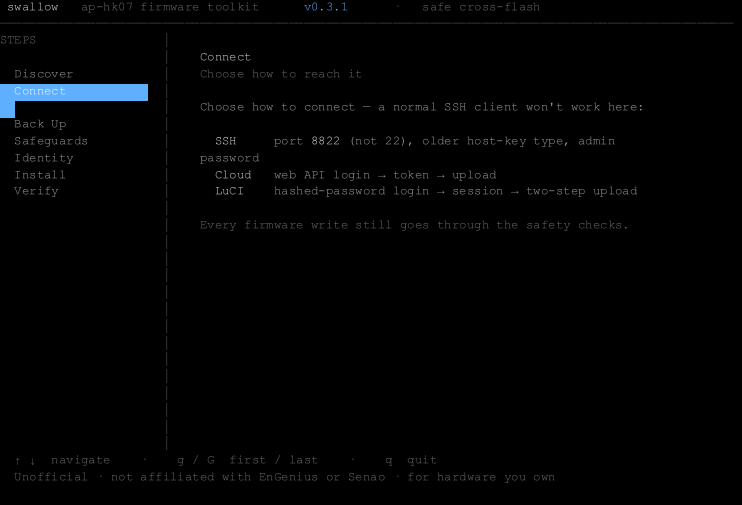
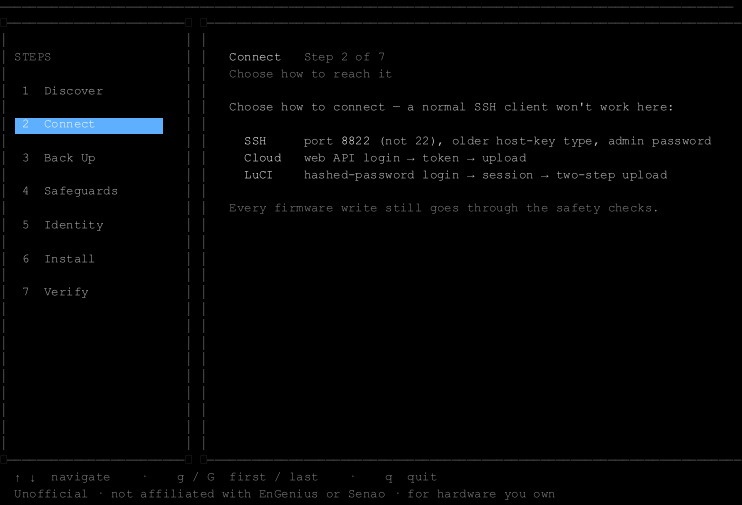
fix(tui): legibility overhaul — higher contrast, framed cards, safe glyphs
The old dashboard was hard to read: dim grays on black, and a pipe-column
"divider" that was really the menu's right border.

- Contrast: bright near-white headings, a high-contrast body gray, and readable
  captions (no more near-invisible dim text). Accent moved to a brighter blue
  that stays legible on black.
- Structure: two rounded, bordered cards (sidebar + detail) instead of the pipe
  column. Numbered steps (1–7) and a "Step N of 7" breadcrumb.
- Glyphs: the check/box/cross glyphs rendered as tofu in common terminal fonts;
  replaced with the middle-dot bullet (renders everywhere). Color still carries
  the allowed/refused, valid/bad meaning.
- Safeguards screen reflowed so nothing wraps mid-token.

Screenshots regenerated; termwright asserts all 7 screens.

diff --git a/go/internal/tui/tui.go b/go/internal/tui/tui.go
@@ -16,37 +16,40 @@ import (
 	"github.com/ParkWardRR/swallow-ap-hk07-firmware-tools/internal/mews"
 )
 
-// A restrained, system-like palette: mostly neutral ink, one soft-blue accent
-// for selection/emphasis, and green/red reserved strictly for status meaning.
+// A calm, system-like palette tuned for legibility on a dark terminal: bright
+// near-white headings, a high-contrast body gray, one readable blue accent for
+// selection/links, and green/red reserved strictly for status meaning.
 var (
-	accent   = lipgloss.Color("75")  // soft blue — selection + emphasis
-	ink      = lipgloss.Color("253") // primary text
-	ink2     = lipgloss.Color("247") // secondary text
-	faint    = lipgloss.Color("242") // hints / captions
-	hair     = lipgloss.Color("237") // hairline dividers
-	okc      = lipgloss.Color("78")  // system green
+	accent   = lipgloss.Color("75")  // selection background
+	accentTx = lipgloss.Color("117") // accent text (bright enough to read on black)
+	strong   = lipgloss.Color("231") // headings — near-white
+	text     = lipgloss.Color("252") // primary body text
+	text2    = lipgloss.Color("250") // menu items / secondary
+	cap      = lipgloss.Color("245") // captions / hints (still readable)
+	line     = lipgloss.Color("240") // visible-but-subtle card borders
+	okc      = lipgloss.Color("114") // system green
 	noc      = lipgloss.Color("210") // system red
-	warnc    = lipgloss.Color("179") // muted amber (critical tag)
-	onAccent = lipgloss.Color("231") // near-white text on the accent pill
+	warnc    = lipgloss.Color("179") // muted amber (required tag)
+	onAccent = lipgloss.Color("231") // text on the accent pill
 
-	sProduct = lipgloss.NewStyle().Bold(true).Foreground(ink)
-	sHead    = lipgloss.NewStyle().Bold(true).Foreground(ink)
-	sSub     = lipgloss.NewStyle().Foreground(faint)
-	sBody    = lipgloss.NewStyle().Foreground(ink2)
-	sInk     = lipgloss.NewStyle().Foreground(ink)
-	sKey     = lipgloss.NewStyle().Bold(true).Foreground(ink) // values / tokens
-	sAccent  = lipgloss.NewStyle().Foreground(accent)
-	sVer     = lipgloss.NewStyle().Foreground(accent)
+	sProduct = lipgloss.NewStyle().Bold(true).Foreground(strong)
+	sHead    = lipgloss.NewStyle().Bold(true).Foreground(strong)
+	sSub     = lipgloss.NewStyle().Foreground(cap)
+	sBody    = lipgloss.NewStyle().Foreground(text)
+	sInk     = lipgloss.NewStyle().Foreground(text)
+	sKey     = lipgloss.NewStyle().Bold(true).Foreground(strong) // values / tokens pop
+	sAccent  = lipgloss.NewStyle().Foreground(accentTx)
+	sVer     = lipgloss.NewStyle().Foreground(accentTx)
 	sOK      = lipgloss.NewStyle().Foreground(okc)
 	sNo      = lipgloss.NewStyle().Bold(true).Foreground(noc)
 	sWarn    = lipgloss.NewStyle().Foreground(warnc)
 	sPill    = lipgloss.NewStyle().Bold(true).Foreground(onAccent).Background(accent)
-	sItem    = lipgloss.NewStyle().Foreground(ink2)
+	sItem    = lipgloss.NewStyle().Foreground(text2)
 
-	menuBx = lipgloss.NewStyle().Border(lipgloss.NormalBorder(), false, true, false, false).
-		BorderForeground(hair).PaddingRight(2)
-	contBx = lipgloss.NewStyle().Padding(1, 4)
-	hdrBx  = lipgloss.NewStyle().Border(lipgloss.NormalBorder(), false, false, true, false).BorderForeground(hair)
+	menuBx = lipgloss.NewStyle().Border(lipgloss.RoundedBorder()).BorderForeground(line).
+		Padding(1, 1).MarginRight(1)
+	contBx = lipgloss.NewStyle().Border(lipgloss.RoundedBorder()).BorderForeground(line).Padding(1, 3)
+	hdrBx  = lipgloss.NewStyle().Border(lipgloss.NormalBorder(), false, false, true, false).BorderForeground(line)
 )
 
 type stage struct {
@@ -115,32 +118,37 @@ func (m model) View() string {
 		m.w, m.h = 100, 30
 	}
 	bodyH := m.h - 5
-	if bodyH < 15 {
-		bodyH = 15
+	if bodyH < 16 {
+		bodyH = 16
 	}
-	menuW := 22
+	// Menu card is a fixed width; its inner text width accounts for the rounded
+	// border (2) + horizontal padding (2).
+	menuW := 24
+	menuInner := menuW - 4
 
-	// Sidebar: plain step names. The selected row is a full-width accent pill
-	// (like a settings sidebar); the rest is quiet secondary ink.
+	// Sidebar: plain step names, numbered so the flow reads as a sequence. The
+	// selected row is a full-width accent pill (like a settings sidebar).
 	var menu strings.Builder
 	menu.WriteString(sSub.Render("STEPS") + "\n\n")
 	for i, s := range m.stages {
-		label := fmt.Sprintf("  %-*s", menuW-2, s.name)
+		label := fmt.Sprintf(" %d  %-*s", i+1, menuInner-4, s.name)
 		if i == m.sel {
 			menu.WriteString(sPill.Render(label))
 		} else {
 			menu.WriteString(sItem.Render(label))
 		}
-		menu.WriteByte('\n')
+		menu.WriteString("\n\n")
 	}
 	menuPanel := menuBx.Width(menuW).Height(bodyH).Render(strings.TrimRight(menu.String(), "\n"))
 
-	contentW := m.w - menuW - 8
-	if contentW < 36 {
-		contentW = 36
+	// Content card fills the rest of the width (menu box + its 1-col right margin).
+	contentW := m.w - menuW - 2
+	if contentW < 40 {
+		contentW = 40
 	}
 	cur := m.stages[m.sel]
-	title := sHead.Render(cur.name)
+	crumb := sSub.Render(fmt.Sprintf("Step %d of %d", m.sel+1, len(m.stages)))
+	title := sHead.Render(cur.name) + "   " + crumb
 	sub := sSub.Render(cur.sub)
 	body := title + "\n" + sub + "\n\n" + cur.run()
 	contentPanel := contBx.Width(contentW).Height(bodyH).Render(body)
@@ -196,7 +204,7 @@ func runBackup() string {
 		if a.Critical {
 			tag = sWarn.Render("required")
 		}
-		b.WriteString("  " + sOK.Render("▢ ") + sInk.Render(fmt.Sprintf("%-20s", a.Name)) + sSub.Render(a.Command) + "  " + tag + "\n")
+		b.WriteString("  " + sOK.Render("· ") + sInk.Render(fmt.Sprintf("%-20s", a.Name)) + sSub.Render(a.Command) + "  " + tag + "\n")
 	}
 	b.WriteString("\n" + sSub.Render("The RF-calibration area (factory MACs) is read-only and never touched."))
 	return b.String()
@@ -204,16 +212,15 @@ func runBackup() string {
 
 func runSafeguards() string {
 	var b strings.Builder
-	b.WriteString(sBody.Render("The bootloader is protected — the tool physically can't brick it.") + "\n\n")
+	b.WriteString(sBody.Render("The bootloader is protected — the tool can't brick it.") + "\n\n")
 	good := hood.ParsePrintenv("bootcmd=bootipq\nactive_fw=0\napp_part=0\nrootfsname=rootfs\nsnextra=00000000000000000000\n")
 	cmd, _ := good.PlanSet("snextra", "SWLWX42000000000000A")
-	b.WriteString("  " + sOK.Render("Complete settings") + sSub.Render("  →  allowed:  ") + sAccent.Render(cmd) + "\n")
 	wiped := hood.ParsePrintenv("ethaddr=00:03:7f:12:3e:87\n")
-	_, e1 := wiped.PlanSet("snextra", "x")
-	b.WriteString("  " + sNo.Render("Wiped settings") + sSub.Render(fmt.Sprintf("     →  refused: missing %v", wiped.Missing())) + "\n")
-	_, e2 := good.PlanSet("snextra", "")
-	_ = e1
-	b.WriteString("  " + sNo.Render("Empty value") + sSub.Render("        →  refused: "+oneline(e2.Error())) + "\n\n")
+	_, _ = wiped.PlanSet("snextra", "x")
+	b.WriteString("  " + sOK.Render("· complete env") + sBody.Render("    allowed — adds a single field") + "\n")
+	b.WriteString("  " + sNo.Render("· wiped env") + sBody.Render(fmt.Sprintf("       refused — %d required keys missing", len(wiped.Missing()))) + "\n")
+	b.WriteString("  " + sNo.Render("· empty value") + sBody.Render("     refused — u-boot would delete it") + "\n\n")
+	b.WriteString(sSub.Render("Example allowed write:  ") + sAccent.Render(cmd) + "\n\n")
 	b.WriteString(sSub.Render("It only ever adds a setting — it never erases or resets them."))
 	return b.String()
 }
@@ -247,9 +254,9 @@ func runInstall() string {
 func runVerify() string {
 	var b strings.Builder
 	b.WriteString(sBody.Render("Confirm the device came back exactly as intended:") + "\n\n")
-	b.WriteString("  " + sOK.Render("✓") + " Reads the firmware family and serial after reboot\n")
-	b.WriteString("  " + sOK.Render("✓") + " Compares them against what was written\n")
-	b.WriteString("  " + sOK.Render("✓") + " Flags any mismatch and offers a one-step rollback\n\n")
+	b.WriteString("  " + sOK.Render("·") + " Reads the firmware family and serial after reboot\n")
+	b.WriteString("  " + sOK.Render("·") + " Compares them against what was written\n")
+	b.WriteString("  " + sOK.Render("·") + " Flags any mismatch and offers a one-step rollback\n\n")
 	b.WriteString(sSub.Render("Only after this passes is the flash considered done."))
 	return b.String()
 }
